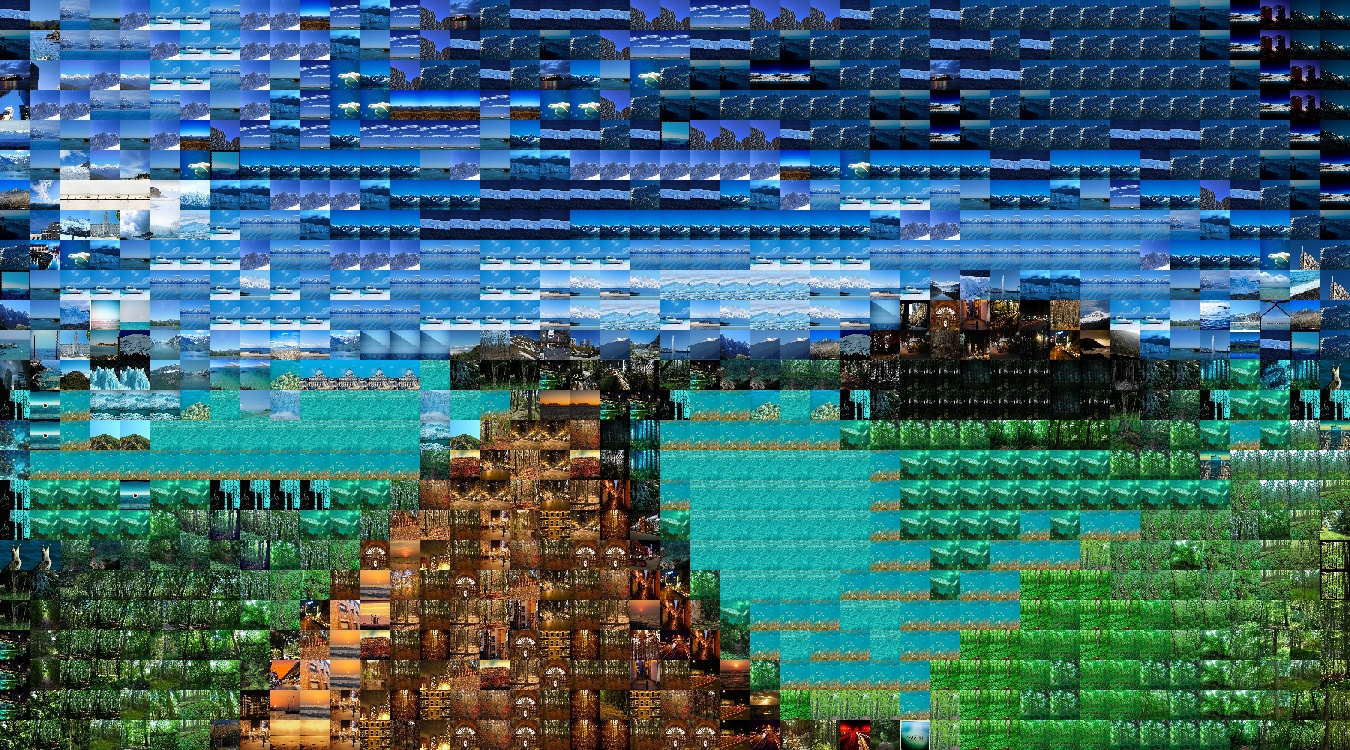
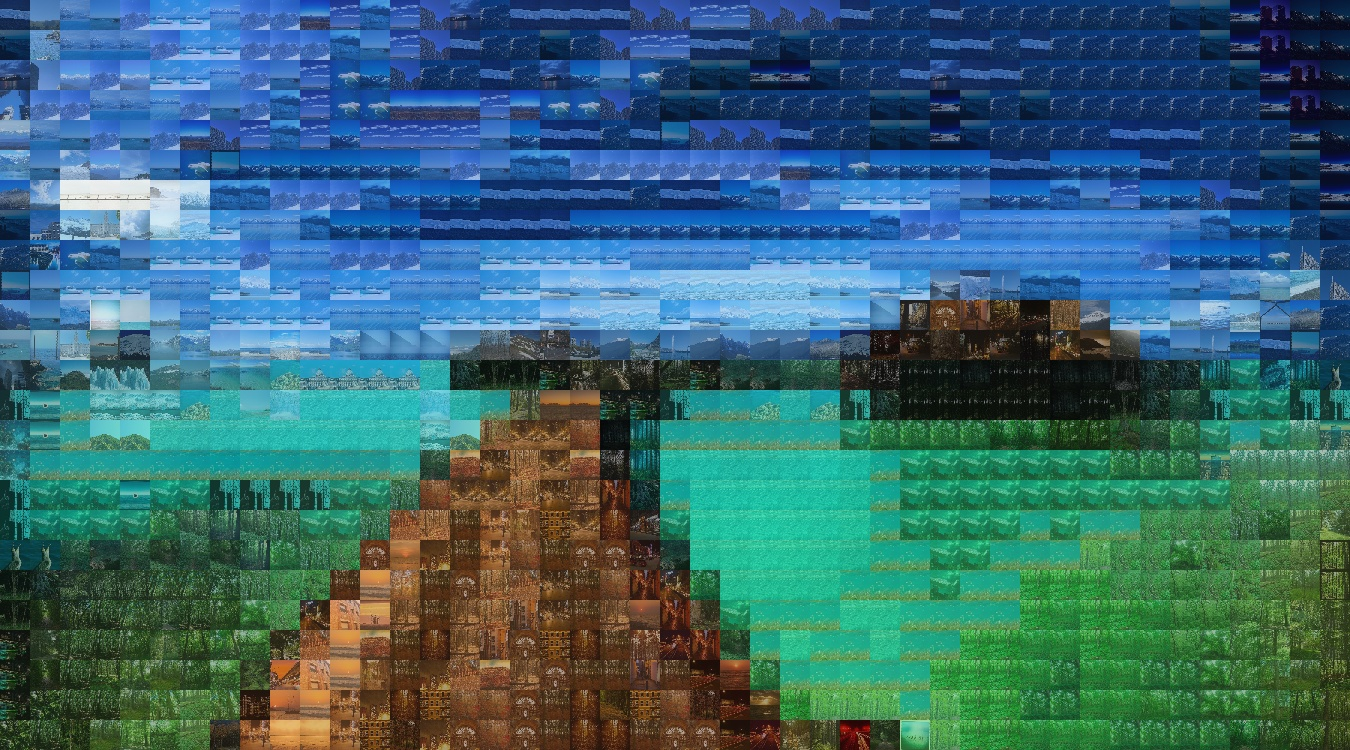
Completed functionality UI

diff --git a/MosaicQt/Mosaic/Mosaic.cpp b/MosaicQt/Mosaic/Mosaic.cpp
@@ -45,7 +45,7 @@ void Mosaic::AlphaBlending(cv::Mat& image, const cv::Scalar& color)
 	}
 }
 
-cv::Mat Mosaic::MakeMosaic(const cv::Mat& image, const BasePictures& basePictures, const Method& method, const Type& type, const uint8_t& partitionSize, bool blending)
+cv::Mat Mosaic::MakeMosaic(const cv::Mat& image, const BasePictures& basePictures, const Method& method, const Type& type, const uint8_t& partitionSize, const Algorithm& algorithm, const bool& blending)
 {
 	//TODO : change partitionSize to width and height pair
 	assert(!image.empty());
@@ -85,11 +85,11 @@ cv::Mat Mosaic::MakeMosaic(const cv::Mat& image, const BasePictures& basePicture
 	switch (type)
 	{
 	case Type::SQUARE:
-		return MakeRectangle(basePictures.GetMediumColor(), copyOriginalImage, blending, partitionSize);
+		return MakeRectangle(basePictures.GetMediumColor(), copyOriginalImage, algorithm, blending, partitionSize);
 	case Type::TRIANGLE:
-		return MakeTriangle(basePictures.GetMediumColor(), copyOriginalImage, blending, partitionSize);
+		return MakeTriangle(basePictures.GetMediumColor(), copyOriginalImage, algorithm, blending, partitionSize);
 	case Type::DIAMOND:
-		return MakeDiamond(basePictures.GetMediumColor(), copyOriginalImage, blending, partitionSize);
+		return MakeDiamond(basePictures.GetMediumColor(), copyOriginalImage, algorithm, blending, partitionSize);
 	default:
 		break;
 	}
@@ -110,7 +110,7 @@ int cmmdc(int firstNumber, int secondNumber)
 
 
 
-cv::Mat Mosaic::MakeRectangle(const std::unordered_map<cv::Scalar, std::string>& dataPictures, const cv::Mat& image, bool blending, const uint8_t& partitionSize)
+cv::Mat Mosaic::MakeRectangle(const std::unordered_map<cv::Scalar, std::string>& dataPictures, const cv::Mat& image, const Algorithm& algorithm, const bool& blending, const uint8_t& partitionSize)
 {
 	//can be used to create squares as well
 	//removed redundant makeSquare function
@@ -126,7 +126,7 @@ cv::Mat Mosaic::MakeRectangle(const std::unordered_map<cv::Scalar, std::string>&
 			cv::Scalar mediumColor = pt::averageColorRectangle(image, { y,x }, { partitionSize,partitionSize });
 			std::string pictureName;
 
-			cv::Mat cell = std::move(FindPictureWithColorMed(dataPictures, mediumColor, pictureName));
+			cv::Mat cell = std::move(FindPictureWithColorMed(dataPictures, mediumColor, pictureName, algorithm));
 			cell = pt::resize(cell, partitionSize, partitionSize, pt::Algorithm::BILINEAR_INTERPOLATION);
 
 			if (blending)
@@ -138,7 +138,7 @@ cv::Mat Mosaic::MakeRectangle(const std::unordered_map<cv::Scalar, std::string>&
 	return result;
 }
 
-cv::Mat Mosaic::MakeTriangle(const std::unordered_map<cv::Scalar, std::string>& dataPictures, const cv::Mat& image, bool blending, const uint8_t& partitionSize)
+cv::Mat Mosaic::MakeTriangle(const std::unordered_map<cv::Scalar, std::string>& dataPictures, const cv::Mat& image, const Algorithm& algorithm, const bool& blending, const uint8_t& partitionSize)
 {
 	int v1 = image.cols % partitionSize;
 	int v2 = image.rows % partitionSize;
@@ -167,7 +167,7 @@ cv::Mat Mosaic::MakeTriangle(const std::unordered_map<cv::Scalar, std::string>& 
 
 			std::string pictureName = "";
 
-			cv::Mat cell = std::move(FindPictureWithColorMed(dataPictures, medColor, pictureName));
+			cv::Mat cell = std::move(FindPictureWithColorMed(dataPictures, medColor, pictureName, algorithm));
 			cell = pt::resize(cell, partitionSize, partitionSize, pt::Algorithm::BILINEAR_INTERPOLATION);
 			if (blending)
 			{
@@ -184,7 +184,7 @@ cv::Mat Mosaic::MakeTriangle(const std::unordered_map<cv::Scalar, std::string>& 
 			else
 				medColor = pt::averageColorTriangle(image, { y,x }, { partitionSize, partitionSize }, 4);
 
-			cell = std::move(FindPictureWithColorMed(dataPictures, medColor, pictureName));
+			cell = std::move(FindPictureWithColorMed(dataPictures, medColor, pictureName, algorithm));
 			cell = std::move(pt::resize(cell, partitionSize, partitionSize));
 
 			if (blending)
@@ -200,7 +200,7 @@ cv::Mat Mosaic::MakeTriangle(const std::unordered_map<cv::Scalar, std::string>& 
 	return result;
 }
 
-cv::Mat Mosaic::MakeDiamond(const BasePictures::map& dataPictures, const cv::Mat& image, bool blending, const uint8_t& partitionSize)
+cv::Mat Mosaic::MakeDiamond(const BasePictures::map& dataPictures, const cv::Mat& image, const Algorithm& algorithm, const bool& blending, const uint8_t& partitionSize)
 {
 
 	cv::Mat result(image.rows, image.cols, CV_8UC3);
@@ -212,7 +212,7 @@ cv::Mat Mosaic::MakeDiamond(const BasePictures::map& dataPictures, const cv::Mat
 			cv::Scalar medColor = pt::averageColorRectangle(image, { y,x }, { partitionSize,partitionSize });
 
 			std::string namePhoto = "";
-			cv::Mat cell = std::move(FindPictureWithColorMed(dataPictures, medColor, namePhoto));
+			cv::Mat cell = std::move(FindPictureWithColorMed(dataPictures, medColor, namePhoto, algorithm));
 			cell = std::move(pt::resize(cell, partitionSize, partitionSize, pt::Algorithm::BILINEAR_INTERPOLATION));
 
 			if (blending)
@@ -230,44 +230,15 @@ cv::Mat Mosaic::MakeDiamond(const BasePictures::map& dataPictures, const cv::Mat
 			if (x < image.cols - partitionSize - 1 && y < image.rows - partitionSize - 1)
 				Mosaic::ReplaceCellDiamond(result, std::move(cell), std::make_pair(yDiamond, x + partitionSize));
 
-			/*
-			//LEFT MARGIN
-			if (x == 0)
-			{
-				replaceCellTriangle(result, std::move(cell), { y, x }, 1, { 0, 0 }, { partitionSize , partitionSize / 2 });
-				replaceCellTriangle(result, std::move(cell), { y, x }, 4, { 0, 0 }, { partitionSize , (partitionSize + 1) / 2 });
-			}
-			else
-				//RIGHT
-				if (x == image.cols - partitionSize)
-				{
-					replaceCellTriangle(result, std::move(cell), { y, xDiamond }, 3, { 0, 0 }, { partitionSize, partitionSize / 2 });
-					replaceCellTriangle(result, std::move(cell), { yDiamond , xDiamond }, 2, { 0, 0 }, { partitionSize / 2, partitionSize / 2 });
-				}
-
-			//TOP
-			if (y == 0)
-			{
-				replaceCellTriangle(result, std::move(cell), { y, xDiamond }, 3, { 0, 0 }, { partitionSize , partitionSize / 2 });
-				replaceCellTriangle(result, std::move(cell), { y, x }, 1, { 0, 0 }, { partitionSize , partitionSize / 2 });
-			}
-			else
-				//BOTTOM
-				if (y == image.rows - partitionSize)
-				{
-					replaceCellTriangle(result, std::move(cell), { yDiamond, x }, 4, { 0, 0 }, { partitionSize / 2  , (partitionSize + 1) / 2 });
-					replaceCellTriangle(result, std::move(cell), { yDiamond, xDiamond }, 2, { 0, 0 }, { partitionSize / 2 , partitionSize / 2 });
-				}
-				*/
 		}
 
 
-	Mosaic::MakeMargins(result, dataPictures, image, blending, partitionSize);
+	Mosaic::MakeMargins(result, dataPictures, image, algorithm, blending, partitionSize);
 
 	return result;
 }
 
-void Mosaic::MakeMargins(cv::Mat& result, const BasePictures::map& dataPictures, const cv::Mat& image, bool blending, const uint8_t& partitionSize)
+void Mosaic::MakeMargins(cv::Mat& result, const BasePictures::map& dataPictures, const cv::Mat& image, const Algorithm& algorithm, const bool& blending, const uint8_t& partitionSize)
 {
 
 	unsigned int x_left = 0;
@@ -280,11 +251,11 @@ void Mosaic::MakeMargins(cv::Mat& result, const BasePictures::map& dataPictures,
 		cv::Scalar medColorRight = pt::averageColorRectangle(image, { y,x_right }, { partitionSize,partitionSize });
 
 		std::string namePhotoLeft = "";
-		cv::Mat cellLeft = std::move(FindPictureWithColorMed(dataPictures, medColorLeft, namePhotoLeft));
+		cv::Mat cellLeft = std::move(FindPictureWithColorMed(dataPictures, medColorLeft, namePhotoLeft, algorithm));
 		cellLeft = std::move(pt::resize(cellLeft, partitionSize, partitionSize, pt::Algorithm::BILINEAR_INTERPOLATION));
 
 		std::string namePhotoRight = "";
-		cv::Mat cellRight = std::move(FindPictureWithColorMed(dataPictures, medColorRight, namePhotoRight));
+		cv::Mat cellRight = std::move(FindPictureWithColorMed(dataPictures, medColorRight, namePhotoRight, algorithm));
 		cellRight = std::move(pt::resize(cellRight, partitionSize, partitionSize, pt::Algorithm::BILINEAR_INTERPOLATION));
 
 		if (blending)
@@ -313,11 +284,11 @@ void Mosaic::MakeMargins(cv::Mat& result, const BasePictures::map& dataPictures,
 		cv::Scalar medColorBottom = pt::averageColorRectangle(image, { y_bottom,x }, { partitionSize,partitionSize });
 
 		std::string namePhotoTop = "";
-		cv::Mat cellTop = std::move(FindPictureWithColorMed(dataPictures, medColorTop, namePhotoTop));
+		cv::Mat cellTop = std::move(FindPictureWithColorMed(dataPictures, medColorTop, namePhotoTop, algorithm));
 		cellTop = std::move(pt::resize(cellTop, partitionSize, partitionSize, pt::Algorithm::BILINEAR_INTERPOLATION));
 
 		std::string namePhotoBottom = "";
-		cv::Mat cellBottom = std::move(FindPictureWithColorMed(dataPictures, medColorBottom, namePhotoBottom));
+		cv::Mat cellBottom = std::move(FindPictureWithColorMed(dataPictures, medColorBottom, namePhotoBottom, algorithm));
 		cellBottom = std::move(pt::resize(cellBottom, partitionSize, partitionSize, pt::Algorithm::BILINEAR_INTERPOLATION));
 
 		if (blending)
@@ -340,13 +311,17 @@ void Mosaic::MakeMargins(cv::Mat& result, const BasePictures::map& dataPictures,
 }
 
 
-cv::Mat Mosaic::FindPictureWithColorMed(const BasePictures::map& dataPictures, const cv::Scalar& mediumColor, std::string& pictureDifferent)
+cv::Mat Mosaic::FindPictureWithColorMed(const BasePictures::map& dataPictures, const cv::Scalar& mediumColor, std::string& pictureDifferent, const Algorithm& algorithm)
 {
 	std::string pictureName;
 	uint32_t closestDistance = USHRT_MAX;
 	for (auto itr : dataPictures)
 	{
-		int currDistance = RiemersmaDistance(mediumColor, itr.first);
+		int currDistance;
+		if (algorithm == Algorithm::RIEMERSMA)
+			currDistance = RiemersmaDistance(mediumColor, itr.first);
+		else
+			currDistance = EuclideanDistance(mediumColor, itr.first);
 
 		if (currDistance < closestDistance && itr.second != pictureDifferent)
 		{

diff --git a/MosaicQt/QtExample/mainwindow.cpp b/MosaicQt/QtExample/mainwindow.cpp
@@ -53,8 +53,7 @@ std::string MainWindow::selectPictureForMosaic()
 
 bool MainWindow::startMosaic()
 {
-	std::string basePicturePathString = ui->textEditBasePictureFolder->toPlainText().toStdString();
-
+	ui->progressBarMosaic->setValue(0);
 	std::string pictureForMosaicPathString = ui->textEditPictureForMosaic->toPlainText().toStdString();
 	if (pictureForMosaicPathString.size() == 0)
 	{
@@ -65,9 +64,8 @@ bool MainWindow::startMosaic()
 		return false;
 	}
 
-	std::string folderForResultPathString = ui->textEditFolderResultForPicture->toPlainText().toStdString();
+	std::string basePicturePathString = ui->textEditBasePictureFolder->toPlainText().toStdString();
 	BasePictures basePictures;
-
 	if (!ui->checkBoxBasePictures->isChecked())
 	{
 		basePictures.AddBasePicturesMosaic();
@@ -76,7 +74,6 @@ bool MainWindow::startMosaic()
 	{
 		basePictures.CreatePictures(basePicturePathString);
 	}
-
 	if (basePictures.GetNumberPictures() == 0)
 	{
 		error->setWindowTitle("Error");
@@ -87,17 +84,53 @@ bool MainWindow::startMosaic()
 	}
 
 	cv::Mat input = cv::imread(pictureForMosaicPathString, cv::IMREAD_COLOR);
+	auto typeCell = [&] {
+		if (ui->diamondRadioButton->isChecked())
+			return Type::DIAMOND;
+		if (ui->squareRadioButton->isChecked())
+			return Type::SQUARE;
+		return Type::TRIANGLE;
+	};
+	auto method = [&] {
+		if (ui->radioButtonMethodCropping->isChecked())
+			return Method::CROPPING;
+		return Method::RESIZING;
+	};
+	auto algorithm = [&] {
+		if (ui->radioButtonEuclidianAlgorithm->isChecked())
+			return Algorithm::EUCLIDEAN;
+		return Algorithm::RIEMERSMA;
+	};
 
-	cv::Mat input3 = Mosaic::MakeMosaic(input, basePictures, Method::RESIZING, Type::SQUARE, 30, false);
+	cv::Mat output = Mosaic::MakeMosaic(input, basePictures, method(), typeCell(), ui->spinBoxCellSize->value(), algorithm(), ui->checkBoxBlendingPicture->isChecked());
 
-	std::string str = Data::Defaults::PATH_RESULT_IMAGE + "MosaicQt" + ".jpg";
-	cv::imwrite(str, input3);
-	QPixmap mosaic(std::move(QString::fromStdString(str)));
+	std::string folderForResultPathString = ui->textEditFolderResultForPicture->toPlainText().toStdString();
+
+	auto extension = [&] {
+		if (ui->extensionJPG->isChecked())
+			return ".jpg";
+		return ".png";
+	};
+
+	auto outputPath = [&] {
+		if (ui->textEditFolderResultForPicture->toPlainText().toStdString().size() == 0)
+		{
+			return Data::Defaults::PATH_RESULT_IMAGE + ui->textEditNameResultPicture->toPlainText().toStdString() + extension();
+		}
+		return ui->textEditFolderResultForPicture->toPlainText().toStdString() + "/" + ui->textEditNameResultPicture->toPlainText().toStdString() + extension();
+	};
+
+	if (!ui->checkBoxOriginalSize->isChecked())
+	{
+		output = PictureTools::resize(output, ui->spinBoxWidthResultPicture->value(), ui->spinBoxHeightResultPicture->value());
+	}
+
+	cv::imwrite(outputPath(), output);
+	QPixmap mosaic(std::move(QString::fromStdString(outputPath())));
 	ui->labelMosaicPicture->setPixmap(mosaic.scaled(ui->labelMosaicPicture->width(),
 		ui->labelMosaicPicture->height(), Qt::IgnoreAspectRatio));
 
-	static int value = 0;
-	ui->progressBarMosaic->setValue(++value);
+	ui->progressBarMosaic->setValue(100);
 	return true;
 }
 

diff --git a/MosaicQt/Mosaic/Mosaic.h b/MosaicQt/Mosaic/Mosaic.h
@@ -17,6 +17,11 @@ enum class Type {
 	DIAMOND
 };
 
+enum class Algorithm {
+	EUCLIDEAN,
+	RIEMERSMA
+};
+
 
 #ifdef MOSAIC_EXPORTS
 #define MOSAIC_API __declspec(dllexport)
@@ -41,9 +46,10 @@ public:
 		const Method& method,
 		const Type& type = Type::SQUARE,
 		const uint8_t& partitionSize = defaultSize,
-		bool blending = false);
+		const Algorithm& algorithm=Algorithm::RIEMERSMA,
+		const bool& blending = false);
 
-public:
+private:
 	static void ReplaceCellRectangle(cv::Mat& originalPicture, cv::Mat&& mosaicPhoto, const Point& topL); // for square and rectangle
 
 	static void ReplaceCellTriangle(cv::Mat& originalPicture,
@@ -61,24 +67,33 @@ public:
 private:
 	static cv::Mat MakeRectangle(const std::unordered_map<cv::Scalar,
 		std::string>& dataPictures,
-		const cv::Mat& image, bool blending,
+		const cv::Mat& image,
+		const Algorithm& algorithm,
+		const bool& blending,
 		const uint8_t& partitionSize = defaultSize);
 
 	static cv::Mat MakeTriangle(const std::unordered_map<cv::Scalar,
 		std::string>& dataPictures,
-		const cv::Mat& image, bool blending,
+		const cv::Mat& image,
+		const Algorithm& algorithm,
+		const bool& blending,
 		const uint8_t& partitionSize = defaultSize);
 
 	static cv::Mat MakeDiamond(const BasePictures::map& dataPictures,
-		const cv::Mat& image, bool blending,
+		const cv::Mat& image,
+		const Algorithm& algorithm,
+		const bool& blending,
 		const uint8_t& partitionSize = defaultSize);
 
 	static void MakeMargins(cv::Mat& result, const BasePictures::map& dataPictures,
-		const cv::Mat& image, bool blending,
+		const cv::Mat& image,
+		const Algorithm& algorithm,
+		const bool& blending,
 		const uint8_t& partitionSize = defaultSize);
 private:
 	static cv::Mat FindPictureWithColorMed(const BasePictures::map& dataPictures,
 		const cv::Scalar& mediumColor,
-		std::string& pictureDifferent);
+		std::string& pictureDifferent,
+		const Algorithm& algorithm);
 };
 
